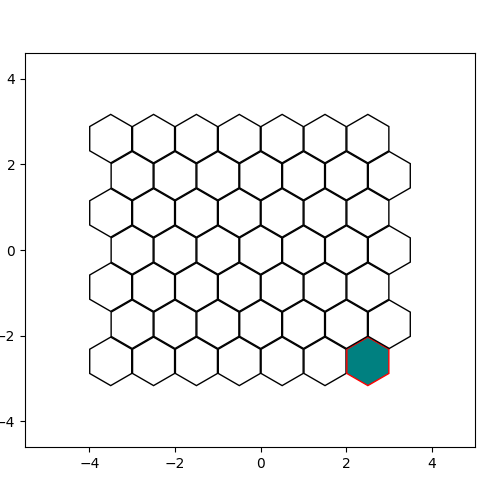
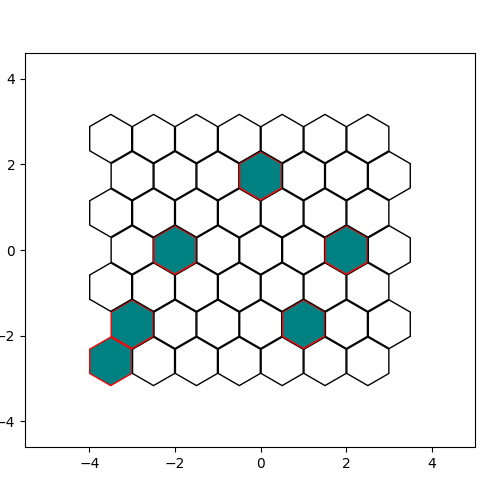
progress img

diff --git a/main.py b/main.py
@@ -80,8 +80,11 @@ class Environment():
         y_hex_coords = hex_centers[:, 1]
         ec = [ (1., 1., 1.) for i in range(len(x_hex_coords))]
         fc = [(0., 0., 0.) for i in range(len(x_hex_coords))]
-        ec[6] = (0., 0.5, 0.5)
-        fc[6] = (1., 0., 0.)
+
+        for k in self.grid.reward.keys():
+            p = self.from_xy_to_i(k)
+            ec[p] = (0., 0.5, 0.5)
+            fc[p] = (1., 0., 0.)
         plot_single_lattice_custom_colors(x_hex_coords, y_hex_coords,
                                           face_color=ec,
                                           edge_color=fc,
